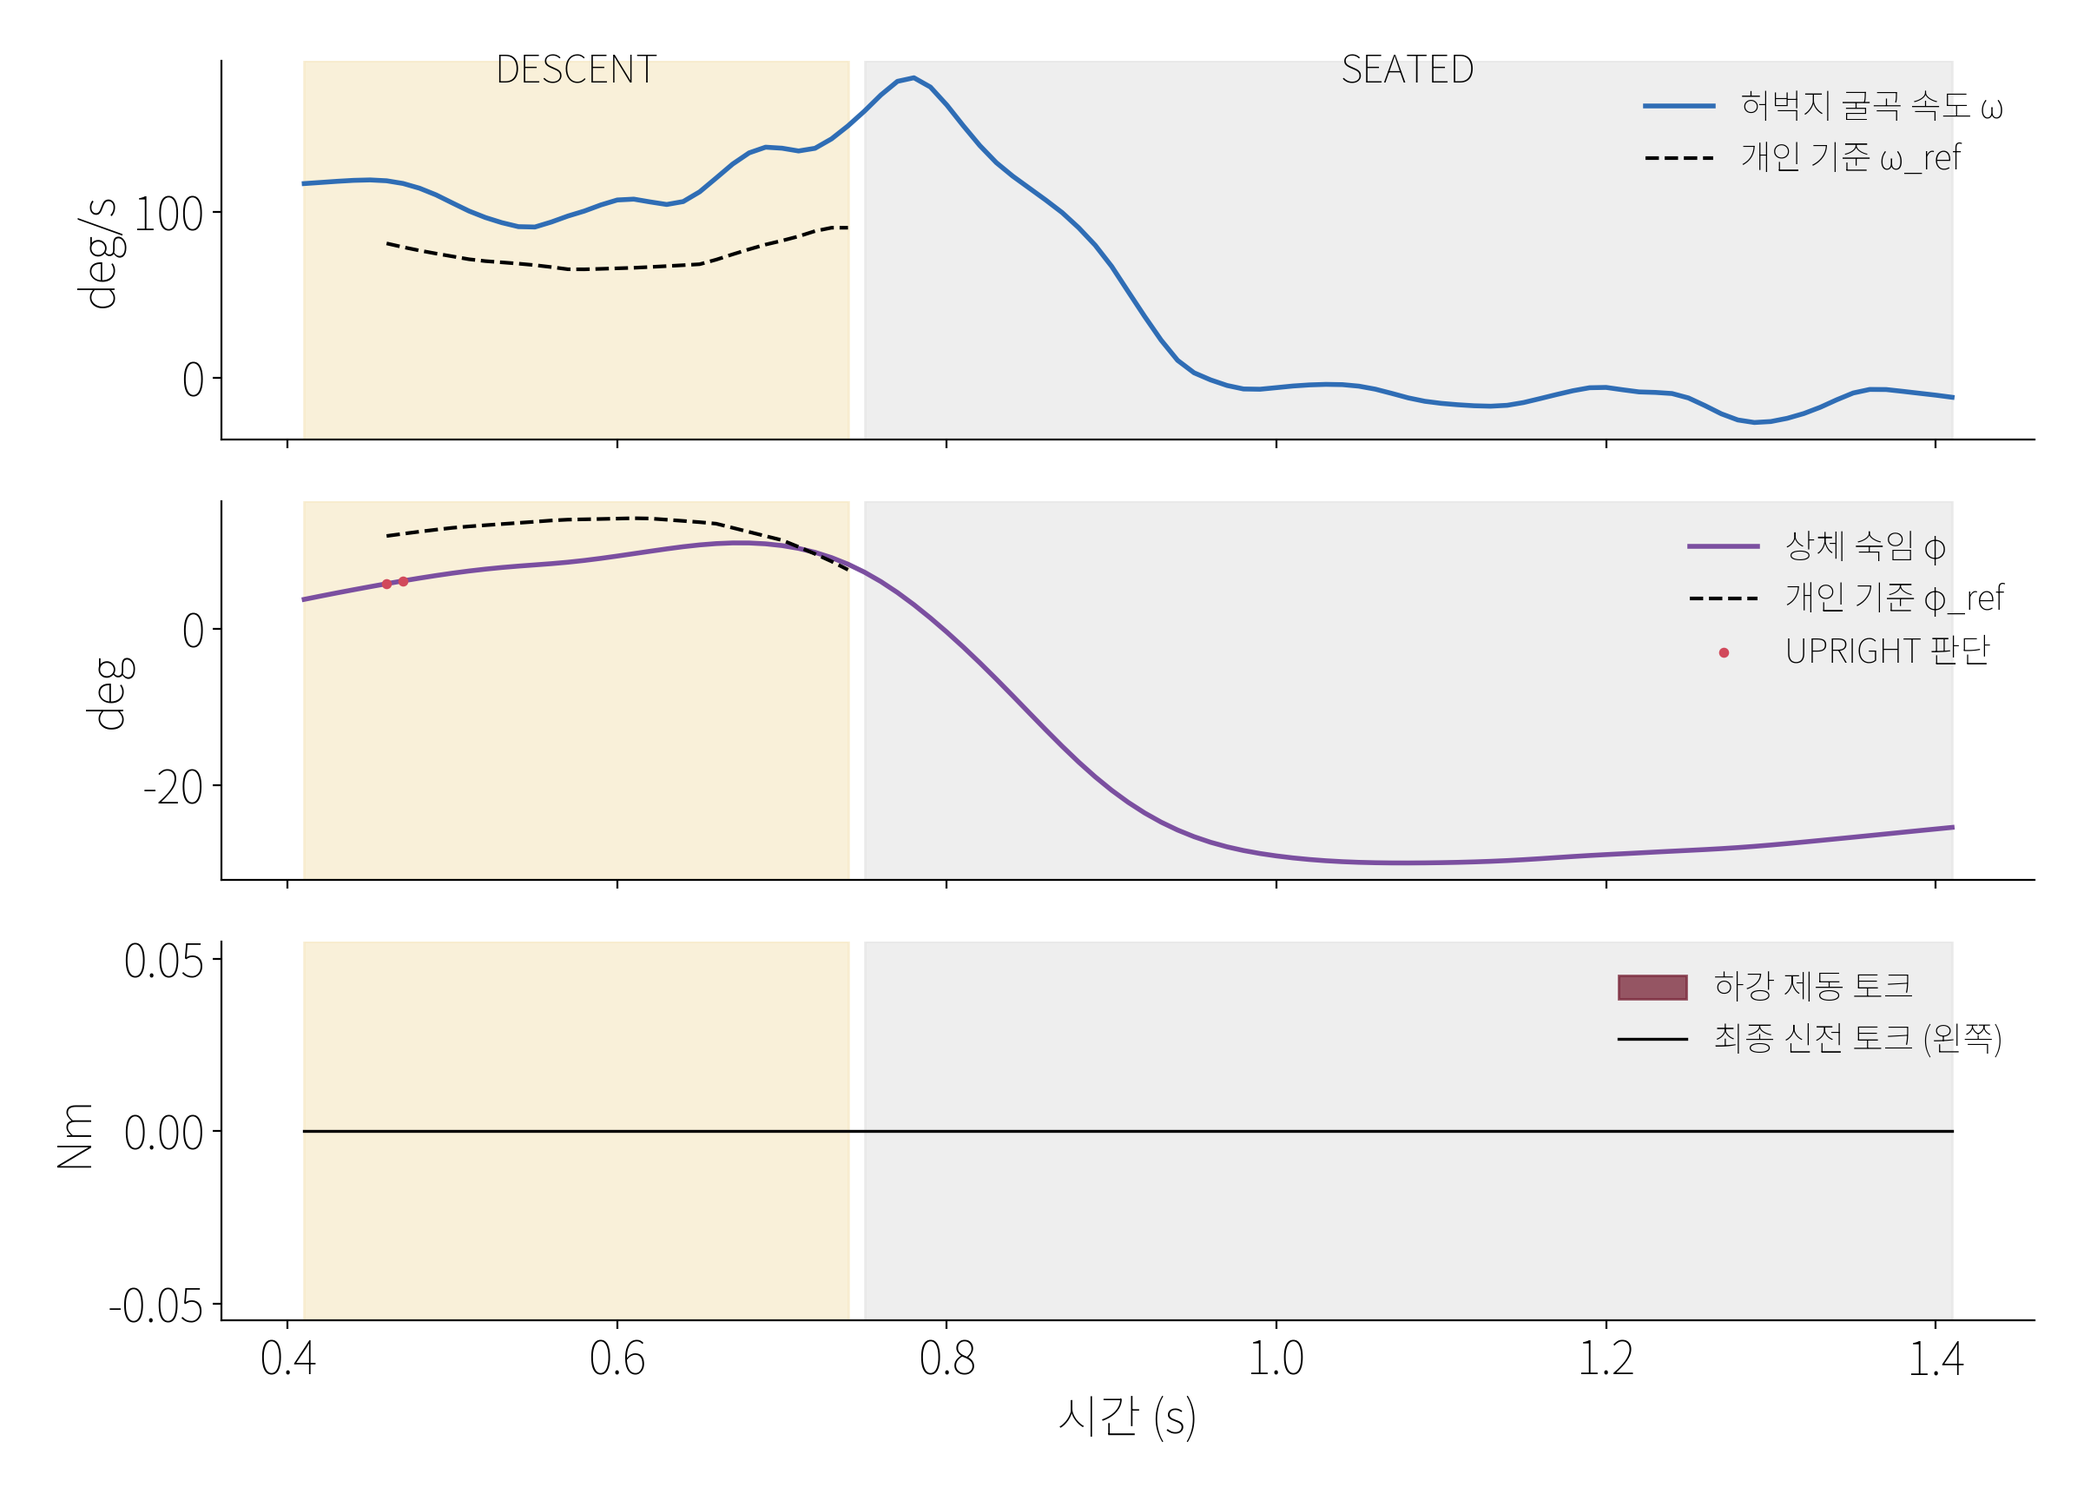
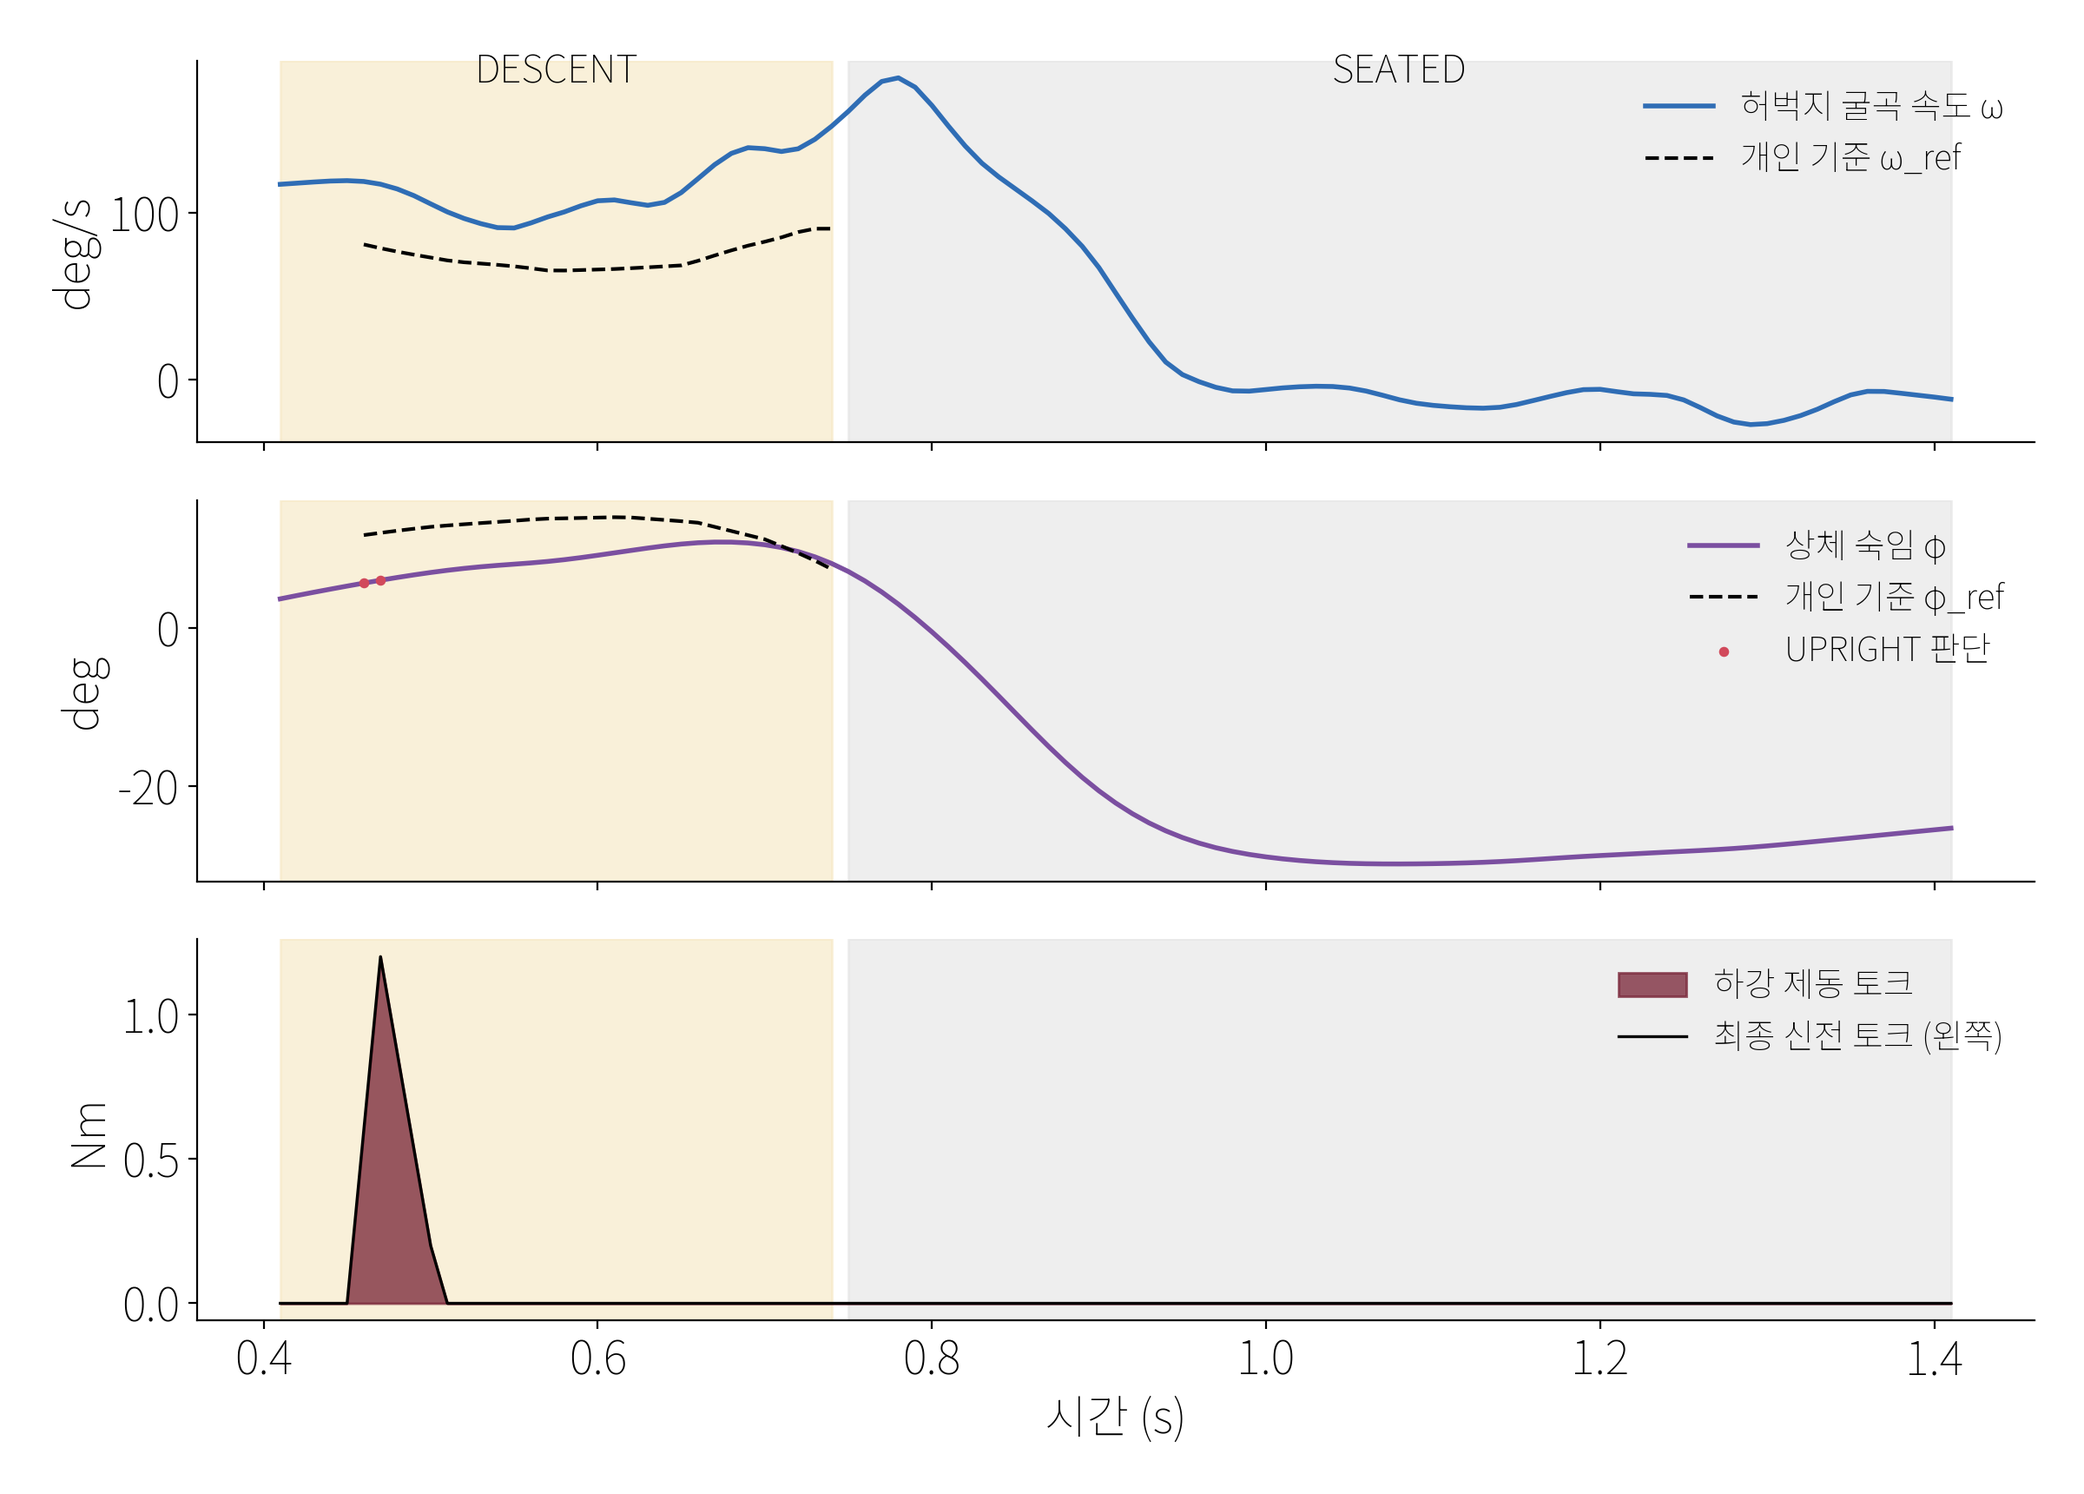
Poster: update for the 2nd assist algorithm
Keep the poster design. Add goal 3 (pre-contact detection via trunk
lean validated against camera CoM), replace support torque with the
upright-flag brake, latest chair numbers (+10.7 deg, 30/30), a
1st-vs-2nd pre-contact brake figure (11/11 vs 0/11), CoM pooled result,
and a 1st-test-to-2nd-fix note. Fix duplicated title when the previous
poster is reused as the template.

diff --git a/poster/make_poster.py b/poster/make_poster.py
@@ -27,6 +27,7 @@ from pptx.util import Cm, Pt
 
 HERE = Path(__file__).resolve().parent
 sys.path.insert(0, str(HERE.parent))
+sys.path.insert(0, str(HERE))
 WINE = RGBColor(0x77, 0x22, 0x35)
 PINK = RGBColor(0xF6, 0xE6, 0xE9)
 GRAY = RGBColor(0x55, 0x55, 0x55)
@@ -263,7 +264,10 @@ def real_stats(real_dir: Path) -> dict:
     p = load_participant(real_dir)
     m = pd.DataFrame([trial_metrics(df) for df in p["calib"]])
     ch = json.loads((HERE.parent / "results" / "real" / "chair_stats.json").read_text())
-    return {"chair": ch, "n_used": len(p["calib"]), "dur": m.descent_time.mean(), "peak": m.peak_vel.mean(),
+    from make_figures import fig_lead
+    import tempfile
+    lead = fig_lead(HERE.parent / "data" / "real" / "1107_set", Path(tempfile.mkdtemp()))
+    return {"chair": ch, "lead": lead, "n_used": len(p["calib"]), "dur": m.descent_time.mean(), "peak": m.peak_vel.mean(),
             "quiet": ch["brake_quiet45"], "late": ch["late_caught45"], "late_k": ch["late_k"]}
 
 
@@ -288,6 +292,8 @@ def build(template: Path, out: Path, figs: Path, metrics_csv: Path, real_dir: Pa
     paras = tbl.cell(0, 0).text_frame.paragraphs
     set_paragraph(paras[0], TITLE[0])
     paras[1].alignment = paras[0].alignment          # 빈 줄을 제목 둘째 줄로 사용
+    for r in list(paras[1].runs):                    # 이미 만든 포스터를 양식으로 다시 쓸 때 둘째 줄이 겹치지 않게
+        paras[1]._p.remove(r._r)
     paras[1]._p.append(copy.deepcopy(paras[0].runs[0]._r))
     paras[1].runs[0].text = TITLE[1]
     set_paragraph(paras[2], COURSE)
@@ -387,10 +393,11 @@ def build(template: Path, out: Path, figs: Path, metrics_csv: Path, real_dir: Pa
         " 쉽습니다.[1][5] 팔걸이를 짚는 보상 전략[7]은 의자가 낮거나 짚을 곳이 없으면 불가능하며, "
         "낮은 의자일수록 고관절을 더 깊이 굽힌 채 오래 버텨야 합니다.[3]"]], size=20)
     sub(X1, 43.1, W1, "연구 목표")
-    body(X1, 44.7, W1, 3.4, [
+    body(X1, 44.6, W1, 3.7, [
         [("① ", W_), "착석 각도로 낮은 의자 착석을 자동으로 감지합니다."],
-        [("② ", W_), "개인의 평소 착석 속도를 기준으로 과도한 하강에만 제동합니다."]],
-        size=20, space_after=2, color=INK)
+        [("② ", W_), "개인의 평소 착석 속도를 기준으로 과도한 하강에만 제동합니다."],
+        [("③ ", W_), "카메라 CoM과 비교한 상체 숙임으로 털썩 주저앉기를 착석 전에 알아채 미리 제동합니다."]],
+        size=18, space_after=1, color=INK)
 
     # 02 실험 설계 및 데이터 ----------------------------------------------------------------
     X2, W2 = 46.8, 40.6
@@ -408,7 +415,7 @@ def build(template: Path, out: Path, figs: Path, metrics_csv: Path, real_dir: Pa
         dotted([(xc - 0.7, top), (xc - 0.7, floor)], color=WINE)
         text(s, xc - 4.4, (top + floor) / 2 - 0.7, 3.6, 1.4, [lab], size=19, bold=True, color=WINE,
              align=PP_ALIGN.RIGHT, space_after=0)
-    pill(X2 + 15.0, 32.0, W2 - 17.8, 1.2, f"의자별 연속 착석 {st['chair']['n45']}회 · 1 kHz 기록", fill=DGRAY, size=16)
+    pill(X2 + 15.0, 32.0, W2 - 17.8, 1.2, f"의자별 착석 {st['chair']['n45']}회 · 카메라 CoM 검증 60회", fill=DGRAY, size=16)
     sub(X2, 34.4, W2, "측정 데이터")
     picture(s, figs / "fig_session.png", X2, 35.9, W2)
 
@@ -419,7 +426,7 @@ def build(template: Path, out: Path, figs: Path, metrics_csv: Path, real_dir: Pa
              ("2", "자세 추정", "굽힘 각도 · 각속도 · 상체 숙임"),
              ("3", "개인 기준 비교", "같은 각도의 평소 속도와 비교"),
              ("4", "착석 단계 판단", "서 있음 · 앉는 중 · 낮은 의자 · 앉음"),
-             ("5", "보조 토크 산출", "상체 지지 + 적응형 하강 제동"),
+             ("5", "보조 토크 산출", "적응형 하강 제동 + 자세 판정 즉시 제동"),
              ("6", "H10 출력", "고관절 신전 토크 10 Nm 이하")]
     sw6 = (84.8 - 5 * 1.0) / 6
     for i, (num, title, desc) in enumerate(steps):
@@ -441,8 +448,8 @@ def build(template: Path, out: Path, figs: Path, metrics_csv: Path, real_dir: Pa
     sub(x + 0.8, top3 + 0.6, cw3 - 1.6, "착석 단계 판단", size=22)
     states = [("서 있음", RGBColor(0x8A, 0x8A, 0x8A), "기준 자세를 갱신하며 토크는 0입니다.",
                "양쪽 허벅지가 0.1초간 굽혀지면"),
-              ("앉는 중", WINE, "평소 속도와 비교해 지지 · 제동합니다.", "평소 착석 각도 + 2SD를 넘으면"),
-              ("낮은 의자", RGBColor(0xA8, 0x3A, 0x4E), "제동을 1.5배로 강화합니다.", "움직임이 0.15초간 멈추면"),
+              ("앉는 중", WINE, "평소 속도 · 상체 숙임과 비교해 제동합니다.", "평소 착석 각도 + 2SD를 넘으면"),
+              ("낮은 의자", RGBColor(0xA8, 0x3A, 0x4E), "제동을 1.5배로 강화합니다.", "엉덩이 충격 · 0.15초 멈춤 (다시 내려가면 되돌림)"),
               ("앉음", DGRAY, "0.3초에 걸쳐 토크를 해제합니다.", "")]
     y = top3 + 2.6
     for name, col, desc, cond in states:
@@ -461,19 +468,20 @@ def build(template: Path, out: Path, figs: Path, metrics_csv: Path, real_dir: Pa
         f"보조 없이 앉은 {st['n_used']}회를 허벅지 각도 5° 구간마다 저장해, 사람마다 다른 '평소 속도'를 기준으로 삼습니다."],
         size=17)
     picture(s, figs / "fig_profile.png", x + 0.6, top3 + 5.6, cw3 - 1.2)
-    params = [("허용 폭 하한", "25°/s"), ("제동 시작", "평소 착석 각도의 50%"), ("제동 임계 점수", "3.5")]
+    params = [("허용 폭 하한", "25°/s"), ("제동 시작", "평소 착석 각도의 50%"), ("제동 임계 점수", "3.5"),
+              ("상체 덜 숙임 판정", "평소 숙임 − 2SD")]
     for k, (nm, val) in enumerate(params):
-        yy = top3 + 16.4 + k * 2.2
+        yy = top3 + 16.0 + k * 1.85
         body(x + 0.8, yy, 12.0, 1.8, [nm], size=18, color=SUBG)
         body(x + 12.0, yy, cw3 - 12.8, 1.8, [{"t": val, "align": PP_ALIGN.RIGHT}], size=18, color=INK)
-        if k < 2:
-            dotted([(x + 0.9, yy + 1.95), (x + cw3 - 0.9, yy + 1.95)], color=LINE)
+        if k < len(params) - 1:
+            dotted([(x + 0.9, yy + 1.7), (x + cw3 - 0.9, yy + 1.7)], color=LINE)
 
     x = xs[2]
     sub(x + 0.8, top3 + 0.6, cw3 - 1.6, "보조 토크 설계", size=22)
     picture(s, assets / "muscles_wine.png", x + 0.6, top3 + 2.4, cw3 - 1.2)
-    torques = [("상체 지지", "숙인 각도에 비례한 신전 토크로 신전근의 부담을 경감합니다."),
-               ("적응형 하강 제동", "착석 후반에 평소보다 크게 빠를 때에만 제동합니다."),
+    torques = [("적응형 하강 제동", "착석 후반에 평소보다 크게 빠를 때에만 제동합니다. 낮은 의자면 1.5배."),
+               ("자세 판정 즉시 제동 (2차)", "평소보다 상체를 덜 숙이면 속도와 상관없이 바로 1.5 Nm로 제동합니다."),
                ("안전 제한", "10 Nm 이하, 상승 속도 60 Nm/s 이하로 제한합니다.")]
     y = top3 + 12.8
     for i, (title, desc) in enumerate(torques):
@@ -488,7 +496,7 @@ def build(template: Path, out: Path, figs: Path, metrics_csv: Path, real_dir: Pa
     stats = [(f"+{st['chair']['deeper_by']:.1f}°", "30 cm 착석 각도 증가"),
              (f"{st['chair']['deep30']}/{st['chair']['n30']}", "낮은 의자 판정"),
              (f"{st['quiet']}/{st['n_used']}", "정상 착석 제동 없음"),
-             (f"{st['late']}/{st['n_used']}", "가속 착석 제동")]
+             (f"{st['lead']['v2_caught']}/{st['lead']['n_plop']}", "털썩 주저앉기 착석 전 제동")]
     sw = (W4 - 3 * 0.8) / 4
     for i, (big, lab) in enumerate(stats):
         x = X4 + i * (sw + 0.8)
@@ -499,8 +507,8 @@ def build(template: Path, out: Path, figs: Path, metrics_csv: Path, real_dir: Pa
     sub(X4 + 0.7, 91.1, 19.6, "의자 높이별 착석 각도", size=19)
     picture(s, figs / "fig_chairs.png", X4 + 1.8, 92.6, 17.4)
     panel(X4 + 21.8, 90.8, W4 - 21.8, 19.6)
-    sub(X4 + 22.5, 91.1, W4 - 23.2, f"가상 급하강 재생 (후반 {st['late_k']:g}배 가속)", size=19)
-    picture(s, figs / "fig_trial_real.png", X4 + 25.4, 92.6, 23.4)
+    sub(X4 + 22.5, 91.1, W4 - 23.2, "털썩 주저앉기 착석 전 판정 (1차 vs 2차)", size=19)
+    picture(s, figs / "fig_lead.png", X4 + 23.6, 92.6, 26.6)
     body(X4, 110.7, W4, 3.4, [
         {"t": "[1] Robinovitch SN et al. Lancet. 2013;381:47–54.  [2] Chen LK et al. JAMDA. 2020;21:300–307.  "
               "[3] Yoshioka S et al. BioMed Eng OnLine. 2014;13:27.  [5] Dubost V et al. Phys Ther. 2005;85:404–412.  "
@@ -519,14 +527,16 @@ def build(template: Path, out: Path, figs: Path, metrics_csv: Path, real_dir: Pa
     body(X5 + 0.8, 96.4, W5 - 1.6, 9.4, [
         [("낮은 의자 감지  ", B), f"착석 각도가 {st['chair']['deeper_by']:.1f}° 증가했고 {st['chair']['n30']}회 중 "
                                    f"{st['chair']['deep30']}회를 감지했습니다."],
-        [("오작동 억제  ", B), f"정상 착석 {st['n_used']}회 중 {st['quiet']}회에서 제동하지 않았습니다."],
-        [("급하강 대응  ", B), f"후반이 빨라진 가상 착석 {st['n_used']}회 중 {st['late']}회에서 제동했습니다."]],
+        [("CoM 대리 지표  ", B), "카메라 CoM과 비교한 60회에서 H10 충격 · 속도 ρ ≈ −0.6, H10 추정 CoM r = 0.74였습니다."],
+        [("착석 전 제동  ", B), f"2차 알고리즘은 털썩 주저앉기 {st['lead']['n_plop']}회를 모두 착석 약 "
+                               f"{st['lead']['lead_med']:.1f}초 전에 제동했습니다 (1차 0회)."]],
         size=20, space_after=12, color=INK)
     panel(X5, 106.6, W5, 7.4)
-    sub(X5 + 0.8, 106.9, W5 - 1.6, "한계 및 향후 연구", size=20)
+    sub(X5 + 0.8, 106.9, W5 - 1.6, "1차 실측 → 2차 개선", size=20)
     body(X5 + 0.8, 108.4, W5 - 1.6, 5.4, [
-        "건강한 성인 1명의 결과이며, 실제 제동 효과는 H10 보조 OFF/ON 비교와 고령자 실험으로 검증할 계획입니다."],
-        size=19)
+        "1차 H10 ON 실측의 후반 제동 부족 · 앉기 전 보조 · 서 있을 때 오작동을 멈칫 뒤 재하강 처리와 자세 판정 "
+        "즉시 제동으로 고쳤고, 2차 실측으로 검증합니다. 피험자 2명 · 2D 카메라의 한계가 있습니다."],
+        size=17)
 
     # 양식의 제목줄 · 제목 표 글꼴도 맞춘다
     for r in tree.iter(qn("a:r")):

diff --git a/poster/make_figures.py b/poster/make_figures.py
@@ -581,6 +581,61 @@ def fig_armrest(d45: Path, darm: Path, out: Path, cfg: Config = Config()):
     plt.close(fig)
 
 
+def fig_lead(set_dir: Path, out: Path, cfg: Config = Config()):
+    """털썩 주저앉기를 착석 몇 초 전에 알아채는가: 평소 착석 9회로 기준을 만들고 같은 사람의 털썩 11회를 재생.
+    1차(속도 제동만)와 2차(상체 덜 숙임 판정 즉시 제동)의 제동 시작 시각을 함께 그린다."""
+    from dataclasses import replace
+    from matplotlib.lines import Line2D
+    dfs = [pd.read_csv(f) for f in sorted(set_dir.glob("calib_rep*.csv"))]
+    normal, plop = dfs[:9], dfs[9:]
+    prof = Profile.from_trials(normal, cfg)
+    rows = []
+    for lab, ds in (("털썩 주저앉기", plop), ("그냥 앉기", normal)):
+        for d in ds:
+            first = {}
+            for name, c in (("v1", replace(cfg, upright_brake=0.0)), ("v2", cfg)):
+                r = run_trial(d, prof, c)
+                t, ph = r.time_s.to_numpy(), r.phase.to_numpy()
+                tc = t[np.where(ph == 3)[0][0]]
+                b = np.where((np.maximum(r.tau_cmd_l, r.tau_cmd_r).to_numpy() > 0) & (t <= tc))[0]
+                first[name] = t[b[0]] - tc if len(b) else np.nan
+                if name == "v2":
+                    start = t[np.where(ph >= 1)[0][0]] - tc
+            rows.append((lab, start, first["v1"], first["v2"]))
+    fig, ax = plt.subplots(figsize=(8.6, 5.6))
+    y, ticks = 0, []
+    for lab in ("털썩 주저앉기", "그냥 앉기"):
+        sub = [r for r in rows if r[0] == lab]
+        for _, st, v1, v2 in sub:
+            ax.plot([st, 0], [y, y], color="#d9d9dc", lw=5, solid_capstyle="round", zorder=1)
+            if not np.isnan(v2):
+                ax.plot(v2, y, "o", color=WINE, ms=9, mec="white", mew=1.2, zorder=3)
+            if not np.isnan(v1):
+                ax.plot(v1, y, "s", color=GRAY, ms=8, mec="white", mew=1.0, zorder=4)
+            y -= 1
+        ticks.append((y + len(sub) / 2 + 0.5, lab))
+        y -= 1.2
+    ax.axvline(0, color="#333", lw=1.4, ls="--")
+    ax.text(0.03, 0.6, "의자에 닿음", fontsize=12, va="bottom")
+    ax.set_yticks([t for t, _ in ticks]); ax.set_yticklabels([l for _, l in ticks], fontsize=13)
+    ax.tick_params(axis="y", length=0)
+    ax.set_xlim(-3.0, 0.5); ax.set_xlabel("의자에 닿기까지 남은 시간 (s)", fontsize=13)
+    ax.tick_params(axis="x", labelsize=12)
+    for k in ("top", "right", "left"):
+        ax.spines[k].set_visible(False)
+    ax.grid(axis="x", alpha=0.25)
+    h = [Line2D([], [], color="#d9d9dc", lw=5, label="내려가는 구간"),
+         Line2D([], [], marker="o", color=WINE, ls="", ms=9, label="2차: 제동 시작"),
+         Line2D([], [], marker="s", color=GRAY, ls="", ms=8, label="1차: 제동 시작 (닿기 전 0회)")]
+    ax.legend(handles=h, frameon=False, fontsize=12, loc="lower left", ncol=3, bbox_to_anchor=(0, -0.28))
+    fig.tight_layout()
+    fig.savefig(out / "fig_lead.png", dpi=200, facecolor="white")
+    plt.close(fig)
+    v2 = [-r[3] for r in rows if r[0] == "털썩 주저앉기" and not np.isnan(r[3])]
+    v1 = [r for r in rows if r[0] == "털썩 주저앉기" and not np.isnan(r[2])]
+    return {"n_plop": len(plop), "v2_caught": len(v2), "v1_caught": len(v1), "lead_med": float(np.median(v2)) if v2 else float("nan")}
+
+
 def main():
     ap = argparse.ArgumentParser()
     ap.add_argument("--real", default="data/real/chair45", help="preprocess_h10.py로 만든 실측 폴더 (45 cm 착석 30회)")
@@ -627,6 +682,10 @@ def main():
         st = json.loads(chair_stats.read_text())
         st["_profile"] = str(HERE_ROOT / "results" / "real" / "profile_45ref.json")
         fig_chairs(HERE_ROOT / "data" / "real" / "chair45", HERE_ROOT / "data" / "real" / "chair30", st, out)
+
+    lead_dir = HERE_ROOT / "data" / "real" / "1107_set"
+    if lead_dir.exists():
+        print("착석 전 판정:", fig_lead(lead_dir, out))
 
     sim = load_participant(Path(args.sim))
     sim_prof = Profile.from_trials(sim["calib"])
